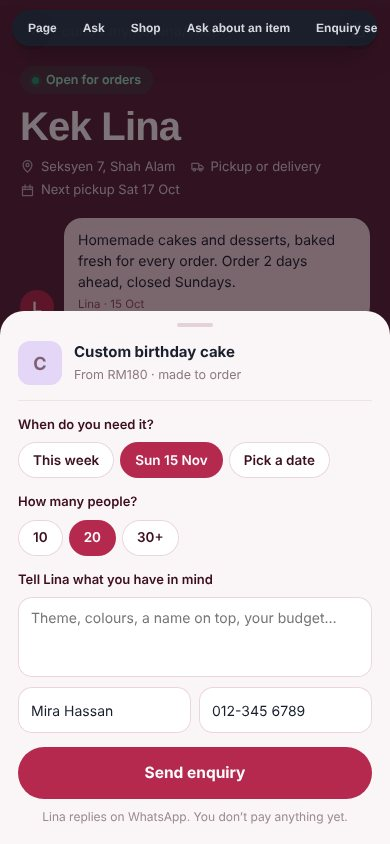
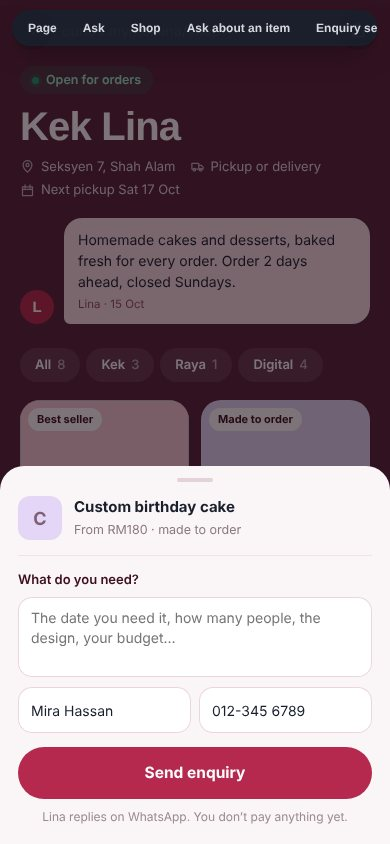
Enquiry sheet: one message box, details picked out by the page
Claude-Session: https://claude.ai/code/session_01XX821iReMkUTtA22TbVSA7

Changed region(s): [[0.0, 0.3697, 1.0, 0.7701]]

diff --git a/design/boards/Public.dc.html b/design/boards/Public.dc.html
@@ -640,9 +640,7 @@ body{margin:0;background:#2a0b16}
 <sc-if value="{{ enqOn }}" hint-placeholder-val="{{ false }}"><div class="enq" role="dialog" aria-modal="true" aria-label="Ask about {{enqIt.name}}"><button type="button" class="enq-dim" aria-label="Close" onClick="{{ enqClose }}"></button><div class="enq-sh">
 <span class="enq-grab" aria-hidden="true"></span>
 <div class="enq-it"><i style="background: {{enqIt.tint}}">{{enqIt.ini}}</i><span><b>{{enqIt.name}}</b><small>{{enqIt.sub}}</small></span></div>
-<p class="enq-q">When do you need it?</p><div class="enq-ch"><sc-for list="{{ enqDays }}" as="c" hint-placeholder-count="3"><button type="button" aria-pressed="{{ c.on }}" onClick="{{ c.go }}">{{c.l}}</button></sc-for></div>
-<p class="enq-q">How many people?</p><div class="enq-ch"><sc-for list="{{ enqPpl }}" as="c" hint-placeholder-count="3"><button type="button" aria-pressed="{{ c.on }}" onClick="{{ c.go }}">{{c.l}}</button></sc-for></div>
-<p class="enq-q">Tell Lina what you have in mind</p><textarea class="enq-ta" placeholder="Theme, colours, a name on top, your budget…" value="{{ enqNote }}" onChange="{{ setEnqNote }}" aria-label="Your message to Lina"></textarea>
+<p class="enq-q">What do you need?</p><textarea class="enq-ta" placeholder="The date you need it, how many people, the design, your budget…" value="{{ enqNote }}" onChange="{{ setEnqNote }}" aria-label="Your message to Lina"></textarea>
 <div class="enq-who"><input value="{{ cname }}" aria-label="Your name"><input value="{{ cphone }}" inputmode="tel" aria-label="Your WhatsApp number"></div>
 <button type="button" class="enq-go" onClick="{{ enqSend }}">Send enquiry</button>
 <p class="enq-f">Lina replies on WhatsApp. You don’t pay anything yet.</p>
@@ -851,11 +849,11 @@ class Component extends DCLogic {
   price(it) { if (it.ask) return it.from ? 'From RM' + it.from + ' · ask' : 'Price on request'; return it.opts.length > 1 ? 'from RM' + Math.min.apply(null, it.opts.map((o) => o[1])) : 'RM' + it.opts[0][1]; }
   sendEnq() {
     const st = this.state, it = this.item(st.enq || 'custom');
-    const day = ['this week', 'Sun 15 Nov', 'a date to confirm'][st.enqDay === undefined ? 1 : st.enqDay], ppl = ['10', '20', '30+'][st.enqPpl === undefined ? 1 : st.enqPpl];
-    const note = st.enqNote === undefined ? 'Frozen theme, 2 tiers, with “Aisyah” on top. Budget around RM250.' : st.enqNote;
-    this.setState({ enq: null, route: 'page', tab: 'ask', msgs: [{ r: 'enq', id: it.id, t: 'For ' + ppl + ' people, ' + day + '. ' + note }, { r: 'sys', t: 'Sent to Lina' }], thinking: true, leadOpen: false, leadSent: false });
+    const note = String(st.enqNote === undefined ? 'For 20 people on Sun 15 Nov. Frozen theme, 2 tiers, with “Aisyah” on top. Budget around RM250.' : st.enqNote).trim();
+    if (!note) return;
+    this.setState({ enq: null, route: 'page', tab: 'ask', msgs: [{ r: 'enq', id: it.id, t: note }, { r: 'sys', t: 'Sent to Lina' }], thinking: true, leadOpen: false, leadSent: false });
     clearTimeout(this.at);
-    this.at = setTimeout(() => this.setState({ thinking: false, msgs: this.state.msgs.concat([{ r: 'a', t: 'Thanks! Custom cakes for ' + ppl + ' people usually start from RM' + (it.from || 180) + ', so your budget should work.\n\n' + (day === 'Sun 15 Nov' ? '15 Nov still has a pickup slot. ' : '') + 'Lina will confirm the design and the final price on WhatsApp, usually within a few hours. You don’t pay anything until you agree.' }]) }), 1300);
+    this.at = setTimeout(() => this.setState({ thinking: false, msgs: this.state.msgs.concat([{ r: 'a', t: 'Thanks! ' + it.name + 's start from RM' + (it.from || 180) + '.\n\nLina will check the date and the design, then reply on WhatsApp with a price, usually within a few hours. You don’t pay anything until you agree.' }]) }), 1300);
   }
   sendQ(q) {
     q = String(q || '').trim();
@@ -911,11 +909,11 @@ class Component extends DCLogic {
       enqOn: !!st.enq, enqIt: (() => { const it = st.enq ? self.item(st.enq) : null; return it ? { name: it.name, tint: it.tint, ink: it.ink, ini: it.name[0], sub: self.price(it).replace(' · ask', '') + ' · made to order' } : {}; })(),
       enqDays: ['This week', 'Sun 15 Nov', 'Pick a date'].map((d, i) => ({ l: d, on: (st.enqDay === undefined ? 1 : st.enqDay) === i, go: () => self.setState({ enqDay: i }) })),
       enqPpl: ['10', '20', '30+'].map((d, i) => ({ l: d, on: (st.enqPpl === undefined ? 1 : st.enqPpl) === i, go: () => self.setState({ enqPpl: i }) })),
-      enqNote: st.enqNote === undefined ? 'Frozen theme, 2 tiers, with “Aisyah” on top. Budget around RM250.' : st.enqNote, setEnqNote: (e) => self.setState({ enqNote: String(e.target.value || '') }),
+      enqNote: st.enqNote === undefined ? 'For 20 people on Sun 15 Nov. Frozen theme, 2 tiers, with “Aisyah” on top. Budget around RM250.' : st.enqNote, setEnqNote: (e) => self.setState({ enqNote: String(e.target.value || '') }),
       enqClose: () => self.setState({ enq: null }),
       enqSend: () => self.sendEnq(),
       rShop: st.route === 'shop', rItem: st.route === 'item', rPlaced: st.route === 'placed', rPayfail: st.route === 'payfail', payAgain: go('placed', { pay: 'paid' }), failVia: ({ fpx: 'FPX · Maybank2u', wallet: 'Touch ’n Go eWallet', card: 'card' })[st.how || 'fpx'] || 'online banking', rPage: st.route === 'page', rCheckout: st.route === 'checkout', rOrder: st.route === 'order', rFaq: st.route === 'faq', rFaqQ: st.route === 'faqq',
-      routes: [['page', 'Page', { tab: 'links' }], ['ask', 'Ask', { tab: 'ask' }], ['shop', 'Shop'], ['shop', 'Ask about an item', { enq: 'custom' }], ['ask', 'Enquiry sent', { tab: 'ask', thinking: false, msgs: [{ r: 'enq', id: 'custom', t: 'For 20 people, Sun 15 Nov. Frozen theme, 2 tiers, with “Aisyah” on top. Budget around RM250.' }, { r: 'sys', t: 'Sent to Lina' }, { r: 'a', t: 'Thanks! Custom cakes for 20 people usually start from RM180, so your budget should work.\n\n15 Nov still has a pickup slot. Lina will confirm the design and the final price on WhatsApp, usually within a few hours. You don’t pay anything until you agree.' }] }], ['item', 'Product', { item: 'coklat', shOpt: 0, shQty: 1, dmode: false }], ['checkout', 'Checkout', { dmode: false, basket: self.B0 }], ['placed', 'Order placed', { dmode: false, basket: self.B0 }], ['payfail', 'Payment failed', { dmode: false, basket: self.B0, how: 'fpx', chip: true }], ['order', 'Order page', { dmode: false, basket: self.B0 }], ['item', 'Digital item', { item: 'class', shOpt: 0, shQty: 1, slot: 0, dmode: true }], ['checkout', 'Checkout, digital', { dmode: true, basket: self.BD }], ['order', 'Order, digital', { dmode: true, basket: self.BD, pay: 'paid' }], ['faq', 'FAQ'], ['faqq', 'FAQ question']].map((r) => {
+      routes: [['page', 'Page', { tab: 'links' }], ['ask', 'Ask', { tab: 'ask' }], ['shop', 'Shop'], ['shop', 'Ask about an item', { enq: 'custom' }], ['ask', 'Enquiry sent', { tab: 'ask', thinking: false, msgs: [{ r: 'enq', id: 'custom', t: 'For 20 people on Sun 15 Nov. Frozen theme, 2 tiers, with “Aisyah” on top. Budget around RM250.' }, { r: 'sys', t: 'Sent to Lina' }, { r: 'a', t: 'Thanks! Custom birthday cakes start from RM180.\n\nLina will check the date and the design, then reply on WhatsApp with a price, usually within a few hours. You don’t pay anything until you agree.' }] }], ['item', 'Product', { item: 'coklat', shOpt: 0, shQty: 1, dmode: false }], ['checkout', 'Checkout', { dmode: false, basket: self.B0 }], ['placed', 'Order placed', { dmode: false, basket: self.B0 }], ['payfail', 'Payment failed', { dmode: false, basket: self.B0, how: 'fpx', chip: true }], ['order', 'Order page', { dmode: false, basket: self.B0 }], ['item', 'Digital item', { item: 'class', shOpt: 0, shQty: 1, slot: 0, dmode: true }], ['checkout', 'Checkout, digital', { dmode: true, basket: self.BD }], ['order', 'Order, digital', { dmode: true, basket: self.BD, pay: 'paid' }], ['faq', 'FAQ'], ['faqq', 'FAQ question']].map((r) => {
         const route = r[0] === 'ask' ? 'page' : r[0];
         const on = st.route === route && (route !== 'page' || (r[2] && r[2].tab === tab)) && (!r[2] || r[2].dmode === undefined || !!st.dmode === r[2].dmode);
         return { label: r[1], on: on, go: go(route, r[2]) };

diff --git a/design/boards/Leads.dc.html b/design/boards/Leads.dc.html
@@ -1025,7 +1025,7 @@ a{color:#2340c8}a:hover{color:#122686}
 </div>
 
 
-<sc-if value="{{ d.isEnq }}" hint-placeholder-val="{{ false }}"><div class="qsec"><h3>Their enquiry<span>Sent from the Ask button in your shop</span></h3>
+<sc-if value="{{ d.isEnq }}" hint-placeholder-val="{{ false }}"><div class="qsec"><h3>Their enquiry<span>Picked out of their message</span></h3>
 <div class="ecard"><div class="ec-it"><i style="background: {{d.e.tint}}; color: {{d.e.ink}}">{{d.e.ini}}</i><span><b>{{d.e.item}}</b><small>Ask for a price · from RM180</small></span><button type="button" class="ec-q" onClick="{{ d.quote }}">{{d.quoteText}}</button></div>
 <div class="ec-f"><span><small>When</small><b>{{d.e.when}}</b></span><span><small>For</small><b>{{d.e.ppl}}</b></span><span><small>Budget</small><b>{{d.e.budget}}</b></span></div>
 <p class="ec-n">“{{d.e.note}}”</p></div></div></sc-if>
@@ -1084,7 +1084,7 @@ class Component extends DCLogic {
     this.state = {
       filter: 'all', sel: 7, cnt: 0, grow: 0, msgs: {}, delConfirm: false, copied: false, toast: '',
       leads: [
-        { id: 7, phone: '+60 12-345 6789', name: 'Farah', when: 'just now', day: 6, status: 'NEW', enq: { item: 'Custom birthday cake', ini: 'C', tint: '#e3d6f7', ink: '#4b2a86', when: 'Sun 15 Nov', ppl: '20 people', budget: 'About RM250', note: 'Frozen theme, 2 tiers, with “Aisyah” on top.' }, slots: { product: 'Custom birthday cake, 20 people', date: 'Sun 15 Nov', location: null }, transcript: [U('Enquiry from the shop: Custom birthday cake. For 20 people, Sun 15 Nov. Frozen theme, 2 tiers, with “Aisyah” on top. Budget around RM250.'), A('Thanks! Custom cakes for 20 people usually start from RM180, so your budget should work. 15 Nov still has a pickup slot. Lina will confirm the design and the final price on WhatsApp.')] },
+        { id: 7, phone: '+60 12-345 6789', name: 'Farah', when: 'just now', day: 6, status: 'NEW', enq: { item: 'Custom birthday cake', ini: 'C', tint: '#e3d6f7', ink: '#4b2a86', when: 'Sun 15 Nov', ppl: '20 people', budget: 'About RM250', note: 'Frozen theme, 2 tiers, with “Aisyah” on top.' }, slots: { product: 'Custom birthday cake, 20 people', date: 'Sun 15 Nov', location: null }, transcript: [U('Enquiry from the shop: Custom birthday cake. For 20 people on Sun 15 Nov. Frozen theme, 2 tiers, with “Aisyah” on top. Budget around RM250.'), A('Thanks! Custom birthday cakes start from RM180. Lina will check the date and the design, then reply on WhatsApp with a price, usually within a few hours.')] },
         { id: 1, phone: '+60 12-781 4402', when: '25 min ago', day: 6, status: 'NEW', slots: { product: 'Kek coklat, 2kg', date: 'Sat 24 Oct', location: 'Klang' }, transcript: [U('nak tanya kek coklat 2kg berapa?'), A('Kek coklat moist 2kg is RM170. Order at least 2 days ahead.'), U('boleh hantar ke klang 24hb?'), A("I'm not sure about delivery to Klang. Leave your number and Lina will get back to you.")] },
         { id: 2, phone: '+60 19-330 2817', when: '2h ago', day: 6, status: 'NEW', slots: { product: 'Cupcakes for about 40 people', date: 'Next Friday', location: null }, transcript: [U('Hi, do you do cupcakes? Need around 40 for an office event'), A("Cupcakes aren't on the menu, but Lina takes custom orders. Leave your number and she'll reply."), U('ok next friday')] },
         { id: 3, phone: '+60 11-2045 7788', when: 'yesterday', day: 5, status: 'CONTACTED', slots: { product: 'Wedding cake, 3 tiers', date: null, location: null }, transcript: [U('Do you make wedding cakes? 3 tier'), A("Wedding cakes are a custom order. Leave your number and Lina will talk you through it.")] },

diff --git a/design/boards/Store.dc.html b/design/boards/Store.dc.html
@@ -900,7 +900,7 @@ a{color:#2340c8}a:hover{color:#122686}
 .sf2-add.ask{width:auto!important;padding:0 9px;border-radius:999px;background:#b5294e!important;color:#fafbfc!important;font-size:10.5px!important;font-weight:700}
 .ask-tiles{grid-template-columns:1fr 1fr}
 .askq{display:flex;flex-wrap:wrap;align-items:center;gap:6px;margin-top:14px;padding:12px 14px;border-radius:10px;background:#f6f8ff}
-.askq b{width:100%;margin-bottom:2px;font-size:12.5px;font-weight:600;color:#122686}
+.askq p{margin:0;font-size:13px;line-height:1.5;color:#3f4554}.askq b{width:100%;margin-bottom:2px;font-size:12.5px;font-weight:600;color:#122686}
 .askq span{height:28px;padding:0 11px;border-radius:999px;background:#ffffff;box-shadow:inset 0 0 0 1px #dfe4f7;font-size:12.5px;color:#3f4554;display:grid;place-items:center}
 </style>
 </helmet>
@@ -1037,7 +1037,7 @@ a{color:#2340c8}a:hover{color:#122686}
 <sc-if value="{{ ed.isAsk }}" hint-placeholder-val="{{ false }}">
 <div class="sub"><b>Starting price</b><span>Optional. Helps your page answer “how much?”</span></div>
 <label class="money" style="width: 200px; margin-top: 12px"><span>From RM</span><input value="{{ ed.price }}" onChange="{{ ed.setPrice }}" inputmode="decimal" aria-label="Starting price in ringgit" placeholder="Leave empty"></label>
-<div class="askq"><b>They’ll be asked</b><span>When they need it</span><span>How many people</span><span>What they have in mind</span><span>Name and WhatsApp</span></div>
+<div class="askq"><b>What they fill in</b><p>One message box, plus their name and WhatsApp. Your page picks out the date, how many people and the budget for you, and puts it in Leads.</p></div>
 </sc-if>
 <sc-if value="{{ ed.notAsk }}" hint-placeholder-val="{{ true }}">
 <div class="sub"><b>Price</b><span>Options suit sizes, like 1kg and 2kg</span></div>

diff --git a/design/HANDOFF.md b/design/HANDOFF.md
@@ -699,15 +699,14 @@ Boards: `Public.dc.html` (customer), `Store.dc.html` and `Leads.dc.html` (owner)
 **Owner (Store item editor)**
 - New "How they order" choice on physical items: **Add to basket** (default) or **Ask for a price**.
 - Ask items take an optional **Starting price** ("From RM"), which the page uses to answer "how much?".
-- A note lists what customers get asked: when, how many people, what they have in mind, name and WhatsApp.
+- A note explains that customers fill in one message plus their name and WhatsApp, and the page picks out the details for Leads.
 - Data: `item.ask = true`, `item.price` = the starting price, which can be empty ("Price on request").
 
 **Customer (shop)**
 - Ask items show a maroon **Ask** pill instead of **+**, priced "From RM180 · ask" (or "Price on request" with no starting price). They can't go in the basket.
 - The item page's bottom bar says **Ask Kek Lina**. The separate "Ask about this" row is hidden on Ask items.
-- The enquiry sheet is a bottom sheet with the item at the top:
-  - date chips, people chips, a message box, name and WhatsApp (prefilled if known)
-  - **Send enquiry**, then "You don't pay anything yet."
+- The enquiry sheet is a bottom sheet with the item at the top, then just **one message box** ("What do you need?", placeholder: the date, how many people, the design, your budget), name and WhatsApp (prefilled if known), **Send enquiry**, and "You don't pay anything yet."
+- There are no fixed questions for the owner to set up. The AI picks the date, number of people and budget out of the message for the Leads card ("Picked out of their message"), the same way it already does for chat leads.
 - After sending, the customer lands in the page's Ask chat:
   - their enquiry shows as a bubble with the item attached, then a green "Sent to Lina" tag
   - the page replies from facts only: the starting price, whether the date has a slot, and that Lina confirms on WhatsApp
